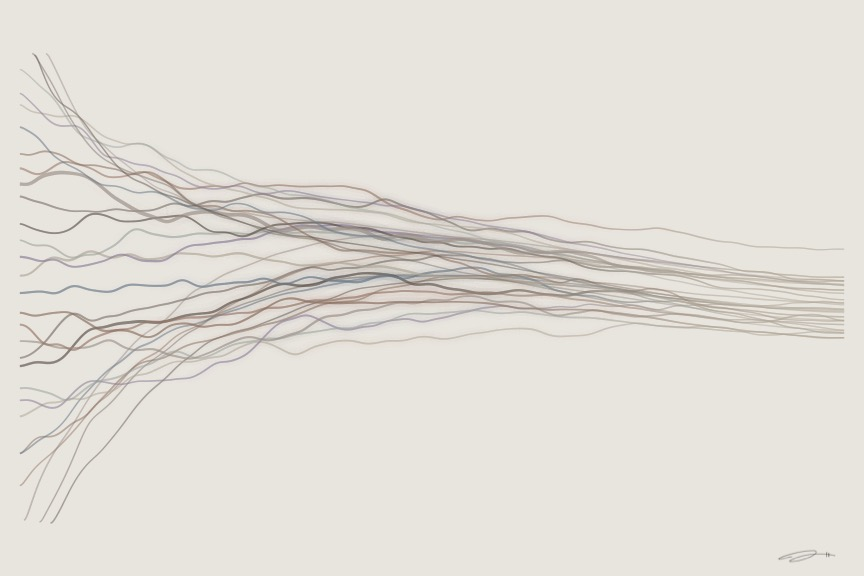
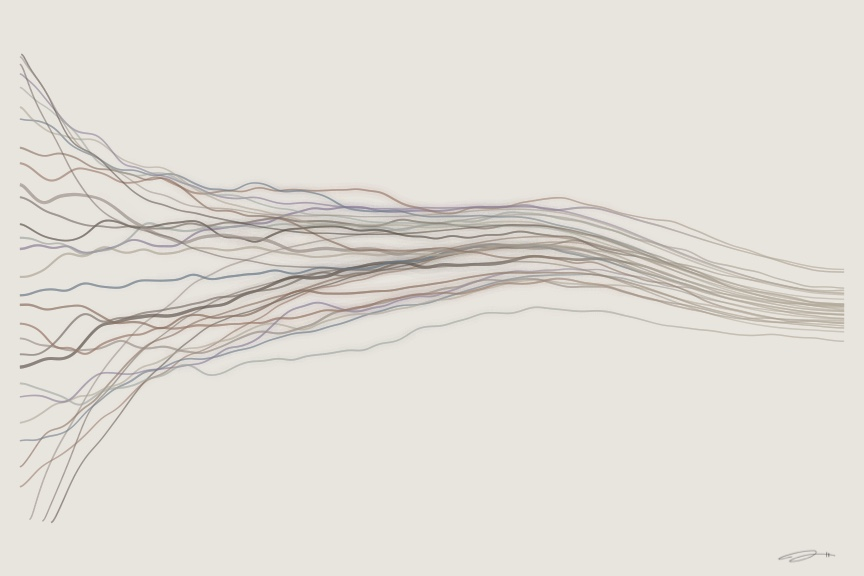
Update Surrender: Flow with closing funnel, refined spread, and more color
- Add soft closing funnel that gently narrows outlier strands on the right
- Restore wider starting spread (0.88) with natural left-side positions
- Increased color presence and upward flow bump at ~67%

Changed region(s): [[0.0, 0.0938, 1.0, 0.9062]]

diff --git a/mathematical_affect/pieces/surrender/surrender_flow.py b/mathematical_affect/pieces/surrender/surrender_flow.py
@@ -144,7 +144,10 @@ def render():
     n_curves = 30
     # Overshoot both edges so lines are clipped by the frame, not ending at it
     t = np.linspace(-0.04, 1.04, 1800)
-    flow_y = cy + PH * 0.06 * np.sin(2 * np.pi * t * 0.7)
+    # Gentle upward lift peaking ~65-70% across, then curves down to exit
+    flow_y = (cy
+              + PH * 0.06 * np.sin(2 * np.pi * t * 0.7)
+              + PH * 0.08 * np.exp(-((t - 0.67) / 0.18) ** 2))  # Gaussian bump at ~67%
     TARGET = WARM       # the color everything surrenders into
     COMMON_LW = 1.4     # the width everything surrenders into
 
@@ -159,7 +162,7 @@ def render():
 
         # Selective spread: outer strands pushed further, center cluster stays present
         spread_frac = frac + 0.08 * np.sin(np.pi * frac) * (2 * abs(frac - 0.5))
-        spread_frac = np.clip(spread_frac, 0.03, 0.97)
+        spread_frac = np.clip(spread_frac, 0.03, 0.88)
         y_start = PAD_B + PH * (0.02 + spread_frac * 0.96)
 
         merge_rate = 1.4 + np.random.uniform(0, 1.4)
@@ -167,25 +170,31 @@ def render():
         # Outer strands: both top and bottom join faster so they curve toward center
         edge_dist = abs(frac - 0.5) * 2
         if edge_dist > 0.85:
-            merge_rate *= 2.8   # very outermost — pull in hard
+            merge_rate *= 3.5   # very outermost — pull in hard
         elif edge_dist > 0.6:
             merge_rate *= 1.7
 
         # Late surrenderers: slightly slower spatial convergence
         if i in late:
-            merge_rate *= 0.72
+            merge_rate *= 0.84
 
         blend = 1 - np.exp(-merge_rate * t)
         noise = np.cumsum(np.random.randn(len(t)) * PH * 0.003 * (1 - blend))
         noise = gaussian_filter1d(noise, 15)
         ys_f = y_start * (1 - blend) + flow_y * blend + noise
 
+        # Closing funnel: soft proportional pull toward flow_y on the right
+        # No hard clamp — just gently reduces deviation so outliers drift in
+        funnel_t = np.clip((t - 0.65) / 0.35, 0, 1) ** 3   # very gentle ease-in from 65%
+        deviation = ys_f - flow_y
+        ys_f = flow_y + deviation * (1 - funnel_t * 0.25)
+
         mask = (ys_f > PAD_B) & (ys_f < PAD_B + PH)
         if mask.sum() < 3: continue
 
         cols = [DARK, MED_DARK, SOFT, RUST, CLAY, BLUE_GR, WARM, LAVENDER, MIST]
         col = cols[i % len(cols)]
-        alpha = 0.22 + 0.70 * (1 - abs(frac - 0.5) * 1.2)
+        alpha = 0.38 + 0.58 * (1 - abs(frac - 0.5) * 1.2)
 
         # Width hierarchy — two forms carry more weight, integrated into the tonal field
         if i == 9:
